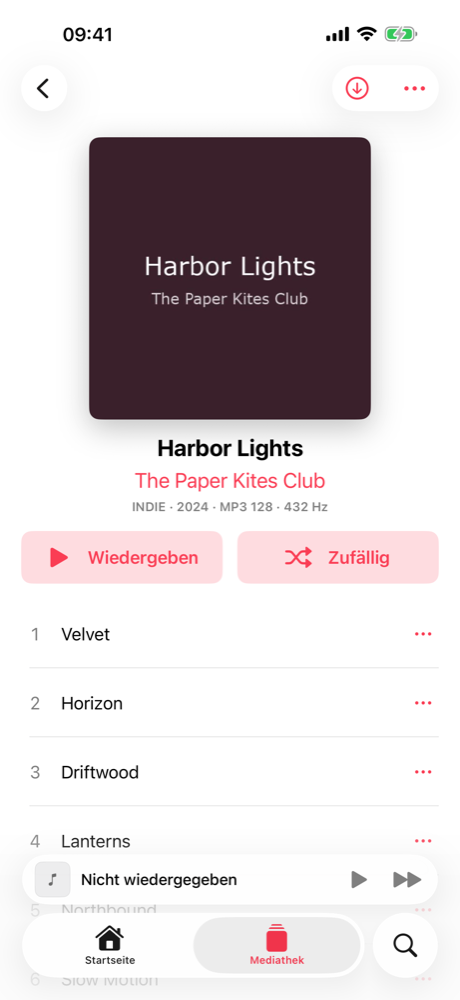
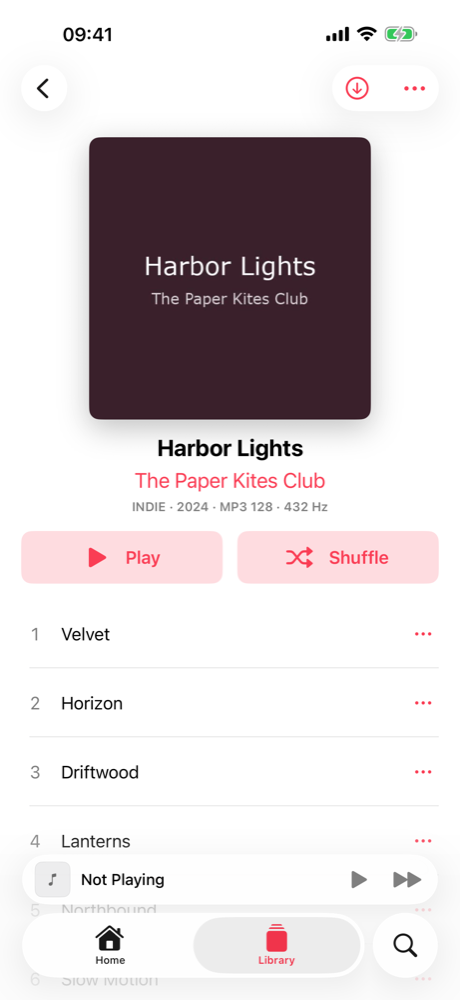
Englische Screenshots, Liedtext-Screenshot, Live-Test für synchrone Liedtexte
- UI-Test sprachunabhängig (UI_LANG=en), 8. Screenshot „Lyrics“
- Unit-Test: zeitsynchroner Liedtext live vom Test-Navidrome
- README: Screenshot-Reihe ergänzt

diff --git a/UITests/AppFlowTests.swift b/UITests/AppFlowTests.swift
@@ -14,8 +14,13 @@ final class AppFlowTests: XCTestCase {
         }
         app = XCUIApplication()
         app.launchEnvironment = ["HOMESPIN_SERVER": server, "HOMESPIN_USER": user, "HOMESPIN_PASSWORD": pw]
+        if english { app.launchArguments += ["-AppleLanguages", "(en)", "-AppleLocale", "en_US"] }
         app.launch()
     }
+
+    /// UI_LANG=en: Oberfläche auf Englisch (für die README-Screenshots)
+    var english: Bool { ProcessInfo.processInfo.environment["UI_LANG"] == "en" }
+    func t(_ de: String, _ en: String) -> String { english ? en : de }
 
     private func shot(_ name: String) {
         let s = XCUIScreen.main.screenshot()
@@ -31,11 +36,11 @@ final class AppFlowTests: XCTestCase {
     }
 
     func testMainFlow() throws {
-        tapTab("Mediathek")
+        tapTab(t("Mediathek", "Library"))
         let albums = app.buttons["section.albums"].firstMatch
         XCTAssertTrue(albums.waitForExistence(timeout: 15))
         // „Zuletzt hinzugefügt“ laden lassen
-        _ = app.staticTexts["Zuletzt hinzugefügt"].waitForExistence(timeout: 15)
+        _ = app.staticTexts[t("Zuletzt hinzugefügt", "Recently Added")].waitForExistence(timeout: 15)
         sleep(2)
         shot("1-library")
 
@@ -65,7 +70,7 @@ final class AppFlowTests: XCTestCase {
         let track = app.cells.containing(.any, identifier: "track.3").firstMatch
         if track.waitForExistence(timeout: 3) {
             track.press(forDuration: 1.2)
-            let next = app.buttons["Als Nächstes wiedergeben"].firstMatch
+            let next = app.buttons[t("Als Nächstes wiedergeben", "Play Next")].firstMatch
             if next.waitForExistence(timeout: 3) { next.tap() }
         }
 
@@ -84,6 +89,11 @@ final class AppFlowTests: XCTestCase {
 
         app.buttons["nowPlaying.lyrics"].firstMatch.tap()
         XCTAssertTrue(app.descendants(matching: .any)["lyrics"].firstMatch.waitForExistence(timeout: 8))
+        // Demo-Titel „Velvet“ hat einen zeitsynchronen Liedtext (.lrc auf dem Testserver)
+        if app.staticTexts["Soft as velvet, slow as rain"].firstMatch.waitForExistence(timeout: 8) {
+            sleep(2)
+            shot("8-lyrics")
+        }
 
         app.buttons["nowPlaying.next"].firstMatch.tap()
         app.buttons["nowPlaying.lyrics"].firstMatch.tap()
@@ -94,12 +104,12 @@ final class AppFlowTests: XCTestCase {
     }
 
     func testSearchAndHome() throws {
-        tapTab("Startseite")
+        tapTab(t("Startseite", "Home"))
         XCTAssertTrue(app.buttons["home.shuffleAll"].firstMatch.waitForExistence(timeout: 10))
         sleep(3)
         shot("7-home")
 
-        tapTab("Suchen")
+        tapTab(t("Suchen", "Search"))
         let field = app.searchFields.firstMatch
         XCTAssertTrue(field.waitForExistence(timeout: 10))
         field.tap()
@@ -110,7 +120,7 @@ final class AppFlowTests: XCTestCase {
     }
 
     func testCreateAndDeletePlaylist() throws {
-        tapTab("Mediathek")
+        tapTab(t("Mediathek", "Library"))
         let section = app.buttons["section.playlists"].firstMatch
         XCTAssertTrue(section.waitForExistence(timeout: 15))
         section.tap()
@@ -131,10 +141,10 @@ final class AppFlowTests: XCTestCase {
         let created = app.staticTexts[title].firstMatch
         XCTAssertTrue(created.waitForExistence(timeout: 10))
         created.press(forDuration: 1.2)
-        let del = app.buttons["Playlist löschen"].firstMatch
+        let del = app.buttons[t("Playlist löschen", "Delete Playlist")].firstMatch
         XCTAssertTrue(del.waitForExistence(timeout: 5))
         del.tap()
-        let confirm = app.buttons["Playlist löschen"].firstMatch
+        let confirm = app.buttons[t("Playlist löschen", "Delete Playlist")].firstMatch
         XCTAssertTrue(confirm.waitForExistence(timeout: 5))
         confirm.tap()
         XCTAssertTrue(created.waitForNonExistence(timeout: 10))

diff --git a/Tests/SubsonicClientTests.swift b/Tests/SubsonicClientTests.swift
@@ -127,6 +127,19 @@ final class SubsonicClientTests: XCTestCase {
         XCTAssertFalse(all.contains { $0.id == p.id })
     }
 
+    /// Zeitsynchroner Liedtext live vom Server (Demo-Titel „Velvet“ hat eine .lrc-Datei).
+    func testSyncedLyricsLive() async throws {
+        let c = try Self.client(demo: true)
+        guard let song = try await c.search("Velvet").songs.first(where: { $0.album == "Harbor Lights" }) else {
+            throw XCTSkip("Demo-Titel fehlt")
+        }
+        let list = try await c.lyrics(songId: song.id)
+        let synced = try XCTUnwrap(list.first { $0.synced == true }, "keine synchronen Liedtexte")
+        let lines = synced.line ?? []
+        XCTAssertGreaterThan(lines.count, 5)
+        XCTAssertEqual(lines.compactMap(\.start), lines.compactMap(\.start).sorted(), "Zeilen nach Zeit geordnet")
+    }
+
     func testCoverArt() async throws {
         let c = try Self.client(demo: true)
         let album = try await c.allAlbums()[0]

diff --git a/README.md b/README.md
@@ -19,9 +19,14 @@ HomeSpin is an independent iPhone client for self-hosted Navidrome (or any Subso
   <img src="docs/screenshots/3-album.png" width="160" alt="Album">
   <img src="docs/screenshots/4-now-playing.png" width="160" alt="Now Playing in 432 Hz">
   <img src="docs/screenshots/5-queue.png" width="160" alt="Playing Next">
+  <img src="docs/screenshots/8-lyrics.png" width="160" alt="Synced lyrics">
+</p>
+<p align="center">
+  <img src="docs/screenshots/2-albums.png" width="160" alt="Albums">
+  <img src="docs/screenshots/6-search.png" width="160" alt="Search">
   <img src="docs/screenshots/7-home.png" width="160" alt="Home">
 </p>
-<p align="center"><sub>Screenshots with generated demo albums (no real music).</sub></p>
+<p align="center"><sub>Screenshots with generated demo albums and made-up demo lyrics (no real music).</sub></p>
 
 ## Features
 
@@ -103,6 +108,7 @@ HOMESPIN_DEMO_PASSWORD=...
 
 ```bash
 SIM=<simulator-udid> ./test.sh      # unit tests (API, queue, 432 Hz FFT, engine) + UI tests
+TEST_RUNNER_UI_LANG=en TEST_RUNNER_SHOT_DIR=/tmp/shots SIM=<udid> ./test.sh -only-testing:HomeSpinUITests   # English screenshots
 SIM=<simulator-udid> ./sim-run.sh   # start the app signed in (debug builds only)
 ```
 
